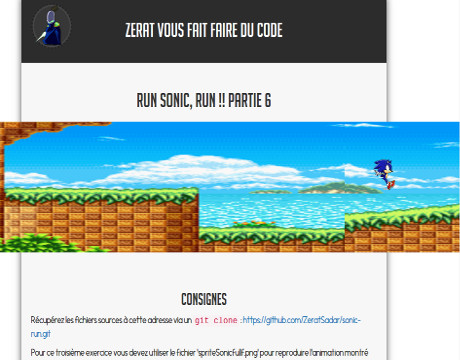
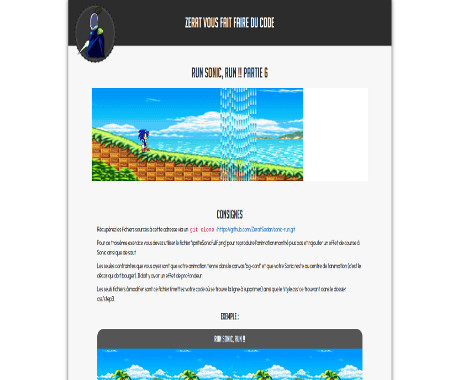
Ajout titre + media queries centrage articles et skills

diff --git a/index.html b/index.html
@@ -21,6 +21,7 @@
 
       <header class="col-xs-12 header">
         <p>CodyX</p>
+        <p id="role">DÉVELOPPEUR</p>
         <a href="index.html" class="logo"><img src="img/logo.png" alt></a>
         <nav>
           <a href="index.html" class="active">Portfolio</a>
@@ -162,7 +163,6 @@
                 <em>HTML/CSS/PaperJS</em>
                 <div class="content">
                   <ul>
-
                    <li><strong>Rôle :</strong>&nbsp;développeur</li>
                    <li><strong>Webdesign/développement :</strong>
                        Simon Pouchol
@@ -170,7 +170,6 @@
                     <li><strong>chef de projet :</strong>
                         Abdel-Malik
                      </li>
-
                   </ul>
                 </div>
               </div>
@@ -200,12 +199,8 @@
                 <em>REVEALJS</em>
                 <div class="content">
                   <ul>
-
                     <li><strong>Rôle :</strong>&nbsp;développeur</li>
-                    <li>
-                      <strong>Client :</strong>&nbsp;
-                      <p>Lycée Saint-Exupéry</p>
-                    </li>
+                    <li><strong>Client :</strong>&nbsp;Lycée Saint-Exupéry</li>
                   </ul>
                 </div>
               </div>
@@ -221,7 +216,6 @@
                   <a href="http://cody13x.github.io/ex-twitter/" target="_tab">
                     <img src="img/works/6/ex-twitter-1.jpg" alt>
                   </a>
-
                 </div>
               </div>
               <div class="infos">
@@ -229,9 +223,7 @@
                 <em>HTML/CSS</em>
                 <div class="content">
                   <ul>
-
                    <li><strong>Rôle :</strong>&nbsp;développeur</li>
-
                   </ul>
                 </div>
               </div>
@@ -247,17 +239,14 @@
                   <a href="http://cody13x.github.io/ex-google/" target="_tab">
                     <img src="img/works/7/ex-google-1.jpg" alt>
                   </a>
-
                 </div>
               </div>
               <div class="infos">
                 <h3>Exercice google</h3>
-              <em>HTML/CSS/JAVASCRIPT</em>
+                <em>HTML/CSS/JAVASCRIPT</em>
                 <div class="content">
                   <ul>
-
                     <li><strong>Rôle :</strong>&nbsp;développeur</li>
-
                   </ul>
                 </div>
               </div>
@@ -270,13 +259,13 @@
             <aside>
               <div class="slideshow">
                 <div>
-                  <a href="http://cody13x.github.io/sonic-run/step6/step6.html" target="_tab">
+                  <a href="http://cody13x.github.io/sonic-run/step6" target="_tab">
                     <img src="img/works/8/sonic-run-1.jpg" alt>
                   </a>
-                  <a href="http://cody13x.github.io/sonic-run/step6/step6.html" target="_tab">
+                  <a href="http://cody13x.github.io/sonic-run/step6" target="_tab">
                     <span>img/works/8/sonic-run-2.jpg</span>
                   </a>
-                  <a href="http://cody13x.github.io/sonic-run/step6/step6.html" target="_tab">
+                  <a href="http://cody13x.github.io/sonic-run/step6" target="_tab">
                     <span>img/works/8/sonic-run-3.jpg</span>
                   </a>
                 </div>
@@ -286,12 +275,7 @@
                 <em>HTML/CSS/jQUERY</em>
                 <div class="content">
                   <ul>
-
                    <li><strong>Rôle :</strong>&nbsp;développeur</li>
-                   <li><strong>développement :</strong>
-                      Bruno Pages
-                    </li>
-
                   </ul>
                 </div>
               </div>
@@ -321,9 +305,7 @@
                 <em>HTML/CSS</em>
                 <div class="content">
                   <ul>
-
                     <li><strong>Rôle :</strong>&nbsp;développeur</li>
-
                   </ul>
                 </div>
               </div>
@@ -339,7 +321,6 @@
                   <a href="http://cody13x.github.io/Birdman/" target="_tab">
                     <img src="img/works/10/Birdman-1.jpg" alt>
                   </a>
-
                 </div>
               </div>
               <div class="infos">
@@ -347,9 +328,7 @@
                 <em>HTML/CSS</em>
                 <div class="content">
                   <ul>
-
                     <li><strong>Rôle :</strong>&nbsp;développeur</li>
-
                   </ul>
                 </div>
               </div>
@@ -375,12 +354,10 @@
               </div>
               <div class="infos">
                 <h3>Application mobile</h3>
-                <em>IONIC/CORDOVA</em>
+                <em>IONIC/CORDOVA/ANGULARJS</em>
                 <div class="content">
                   <ul>
-
                     <li><strong>Rôle :</strong>&nbsp;développeur</li>
-
                   </ul>
                 </div>
               </div>
@@ -389,7 +366,7 @@
           <article class="last">
             <a href="#projet12" class="thumb"><img src="img/works/12/TODOlist.jpg" alt></a>
             <h3>Twitter</h3>
-            <em>JAVASCRIPT/AJAX/PHP</em>
+            <em>JAVASCRIPT</em>
             <aside>
               <div class="slideshow">
                 <div>
@@ -406,12 +383,10 @@
               </div>
               <div class="infos">
                 <h3>Twitter</h3>
-                <em>JAVASCRIPT/AJAX/PHP</em>
+                <em>JAVASCRIPT</em>
                 <div class="content">
                   <ul>
-
                    <li><strong>Rôle :</strong>&nbsp;développeur</li>
-
                   </ul>
                 </div>
               </div>
@@ -441,9 +416,9 @@
                 <em>WEBRTC/JAVASCRIPT/FIREBASE</em>
                 <div class="content">
                   <ul>
-
                    <li><strong>Rôle :</strong>&nbsp;développeur</li>
-
+                   <li><strong>Développement :</strong> Kévin Lachaise</li>
+                   <li><strong>CSS :</strong> Florent Chaspoul</li>
                   </ul>
                 </div>
               </div>
@@ -472,9 +447,11 @@
                 <em>HTML/CSS</em>
                 <div class="content">
                   <ul>
-
                     <li><strong>Rôle :</strong>&nbsp;développeur</li>
-
+                    <li><strong>Développement, design et musique :</strong> Kevin Ciron</li>
+                    <li><strong>Développement et design :</strong> Marc Maignan</li>
+                    <li><strong>Développement et design :</strong> Kévin Lachaise</li>
+                    <li><strong>Développement :</strong> Ahmed</li>
                   </ul>
                 </div>
               </div>

diff --git a/css/style.css b/css/style.css
@@ -29,13 +29,16 @@ body {
 }
 header.header p {
   position: absolute;
-  line-height: 85px;
-  margin-left: 3.4em;
+  line-height: 45px;
+/*  margin-left: 3.4em;*/
   font-size: 40px;
   font: arial;
 }
+header.header #role {
+  margin-top: 50px;
+}
 header.header a {
-  margin-left: 40%;
+  margin-left: 44%;
 }
 header.header .logo {
   float: left;
@@ -92,8 +95,7 @@ hr {
 section.works article {
   display: inline;
   float: left;
-  margin-left: .2%;
-  margin-right: 5.5%;
+  margin-left: 5%;
   width: 20%;
 }
 section.works article .thumb {
@@ -163,7 +165,7 @@ section.work a {
 section.work .infos {
   padding-left: 535px;
   padding-top: 46px;
-  width: 405px;
+/*  width: 405px;*/
 }
 section.work .infos h3 {
   font-size: 24px;
@@ -173,6 +175,9 @@ section.work .infos em {
   display: block;
   font-style: italic;
   margin-bottom: 7px;
+}
+section.work .content{
+  width: 360px;
 }
 section.projects {
   display: none;
@@ -194,8 +199,8 @@ section.skills {
 section.skills .col {
   display: inline;
   float: left;
-  margin-left: 10%;
-  margin-right: 5%;
+  margin-left: 16%;
+  margin-right: 4%;
   margin-bottom: 10px;
   width: 135px;
   text-align: center;
@@ -232,4 +237,25 @@ h4 {
 }
 p {
   margin-bottom: 1.5em;
+}
+
+@media all and (min-width: 800px) and (max-width: 1024px)
+{
+    section.works article {
+      display: inline;
+      float: left;
+      margin-left: 0.2%;
+      margin-right: 5.5%;
+      width: 20%;
+    }
+
+    section.skills .col {
+      display: inline;
+      float: left;
+      margin-left: 11.4%;
+      margin-right: 4%;
+      margin-bottom: 10px;
+      width: 135px;
+      text-align: center;
+    }
 }
